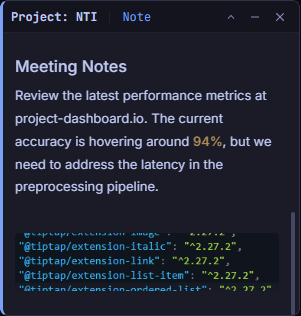
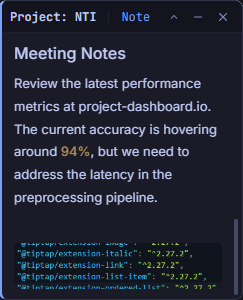
docs: tweak tokyo night sticky preview width on landing

diff --git a/docs/main.js b/docs/main.js
@@ -176,7 +176,7 @@
   if (heroSticky) {
     const STICKY_THEMES = [
       { src: 'screenshots/sticky-note-carbon.png',     width: 220 },
-      { src: 'screenshots/sticky-note-tokionight.png',  width: 220 },
+      { src: 'screenshots/sticky-note-tokionight.png',  width: 170 },
       { src: 'screenshots/sticky-note-arcticday.png',   width: 190 },
       { src: 'screenshots/sticky-note-midnightblue.png', width: 300 },
     ];
